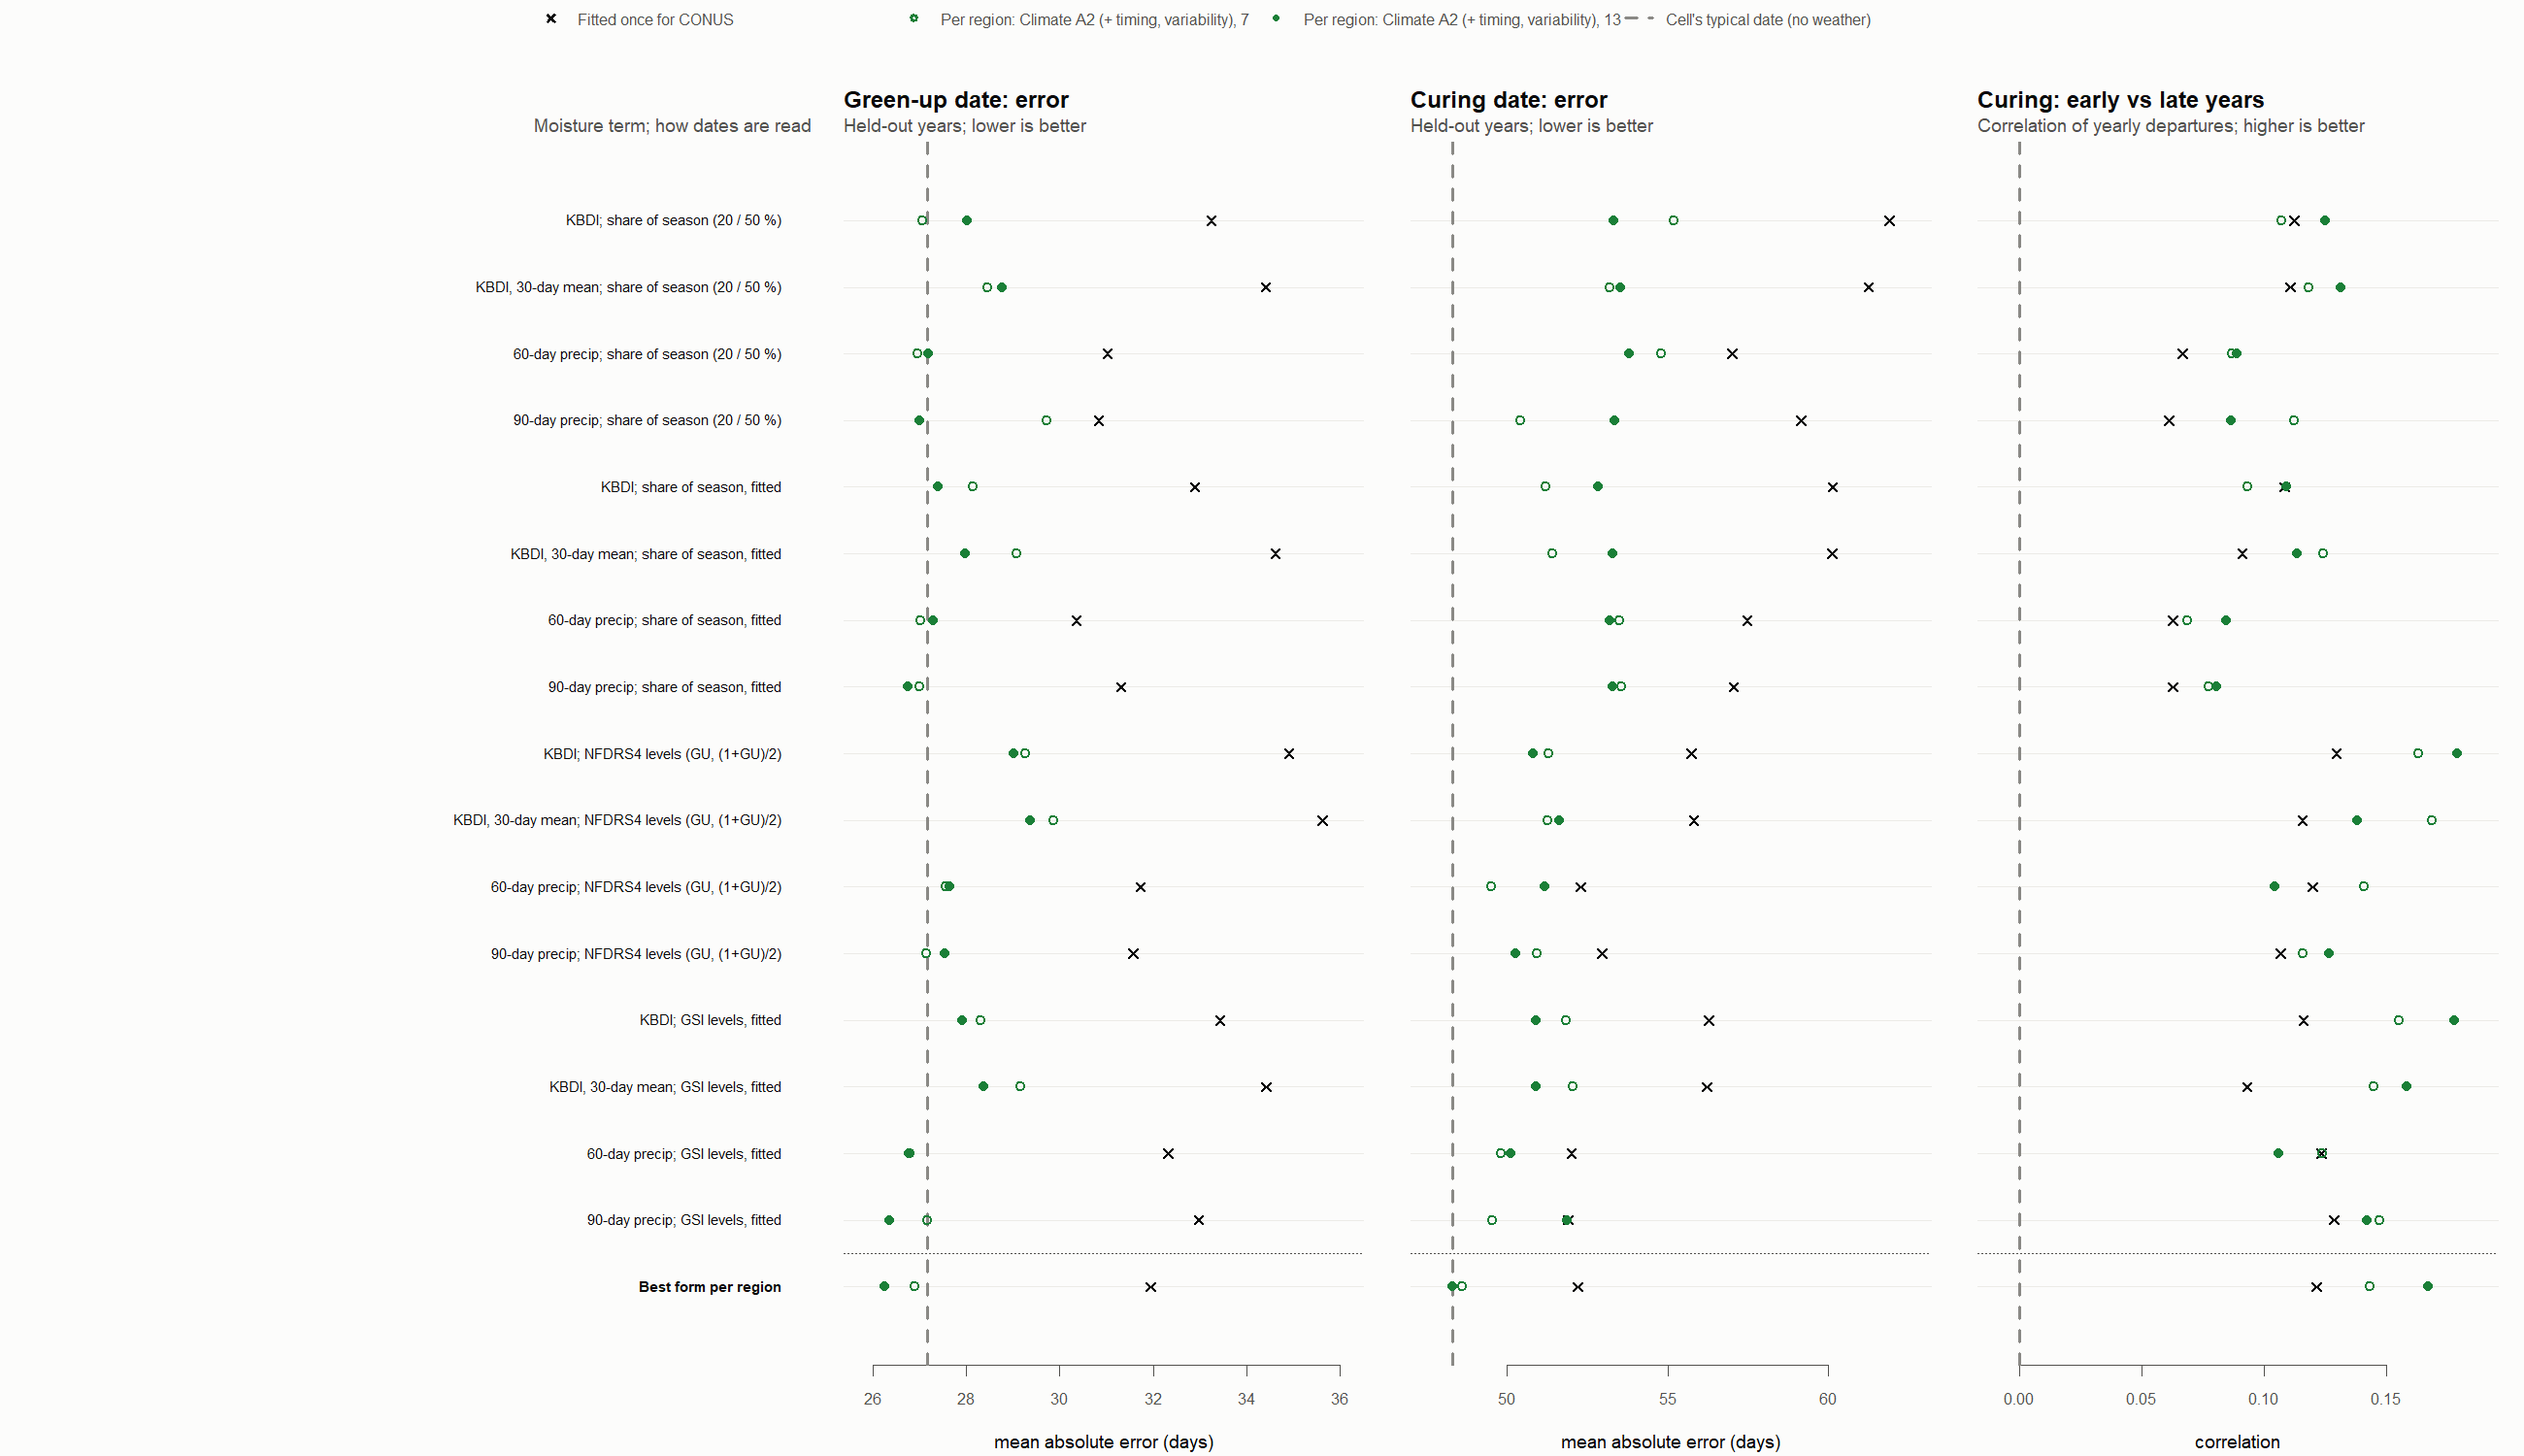
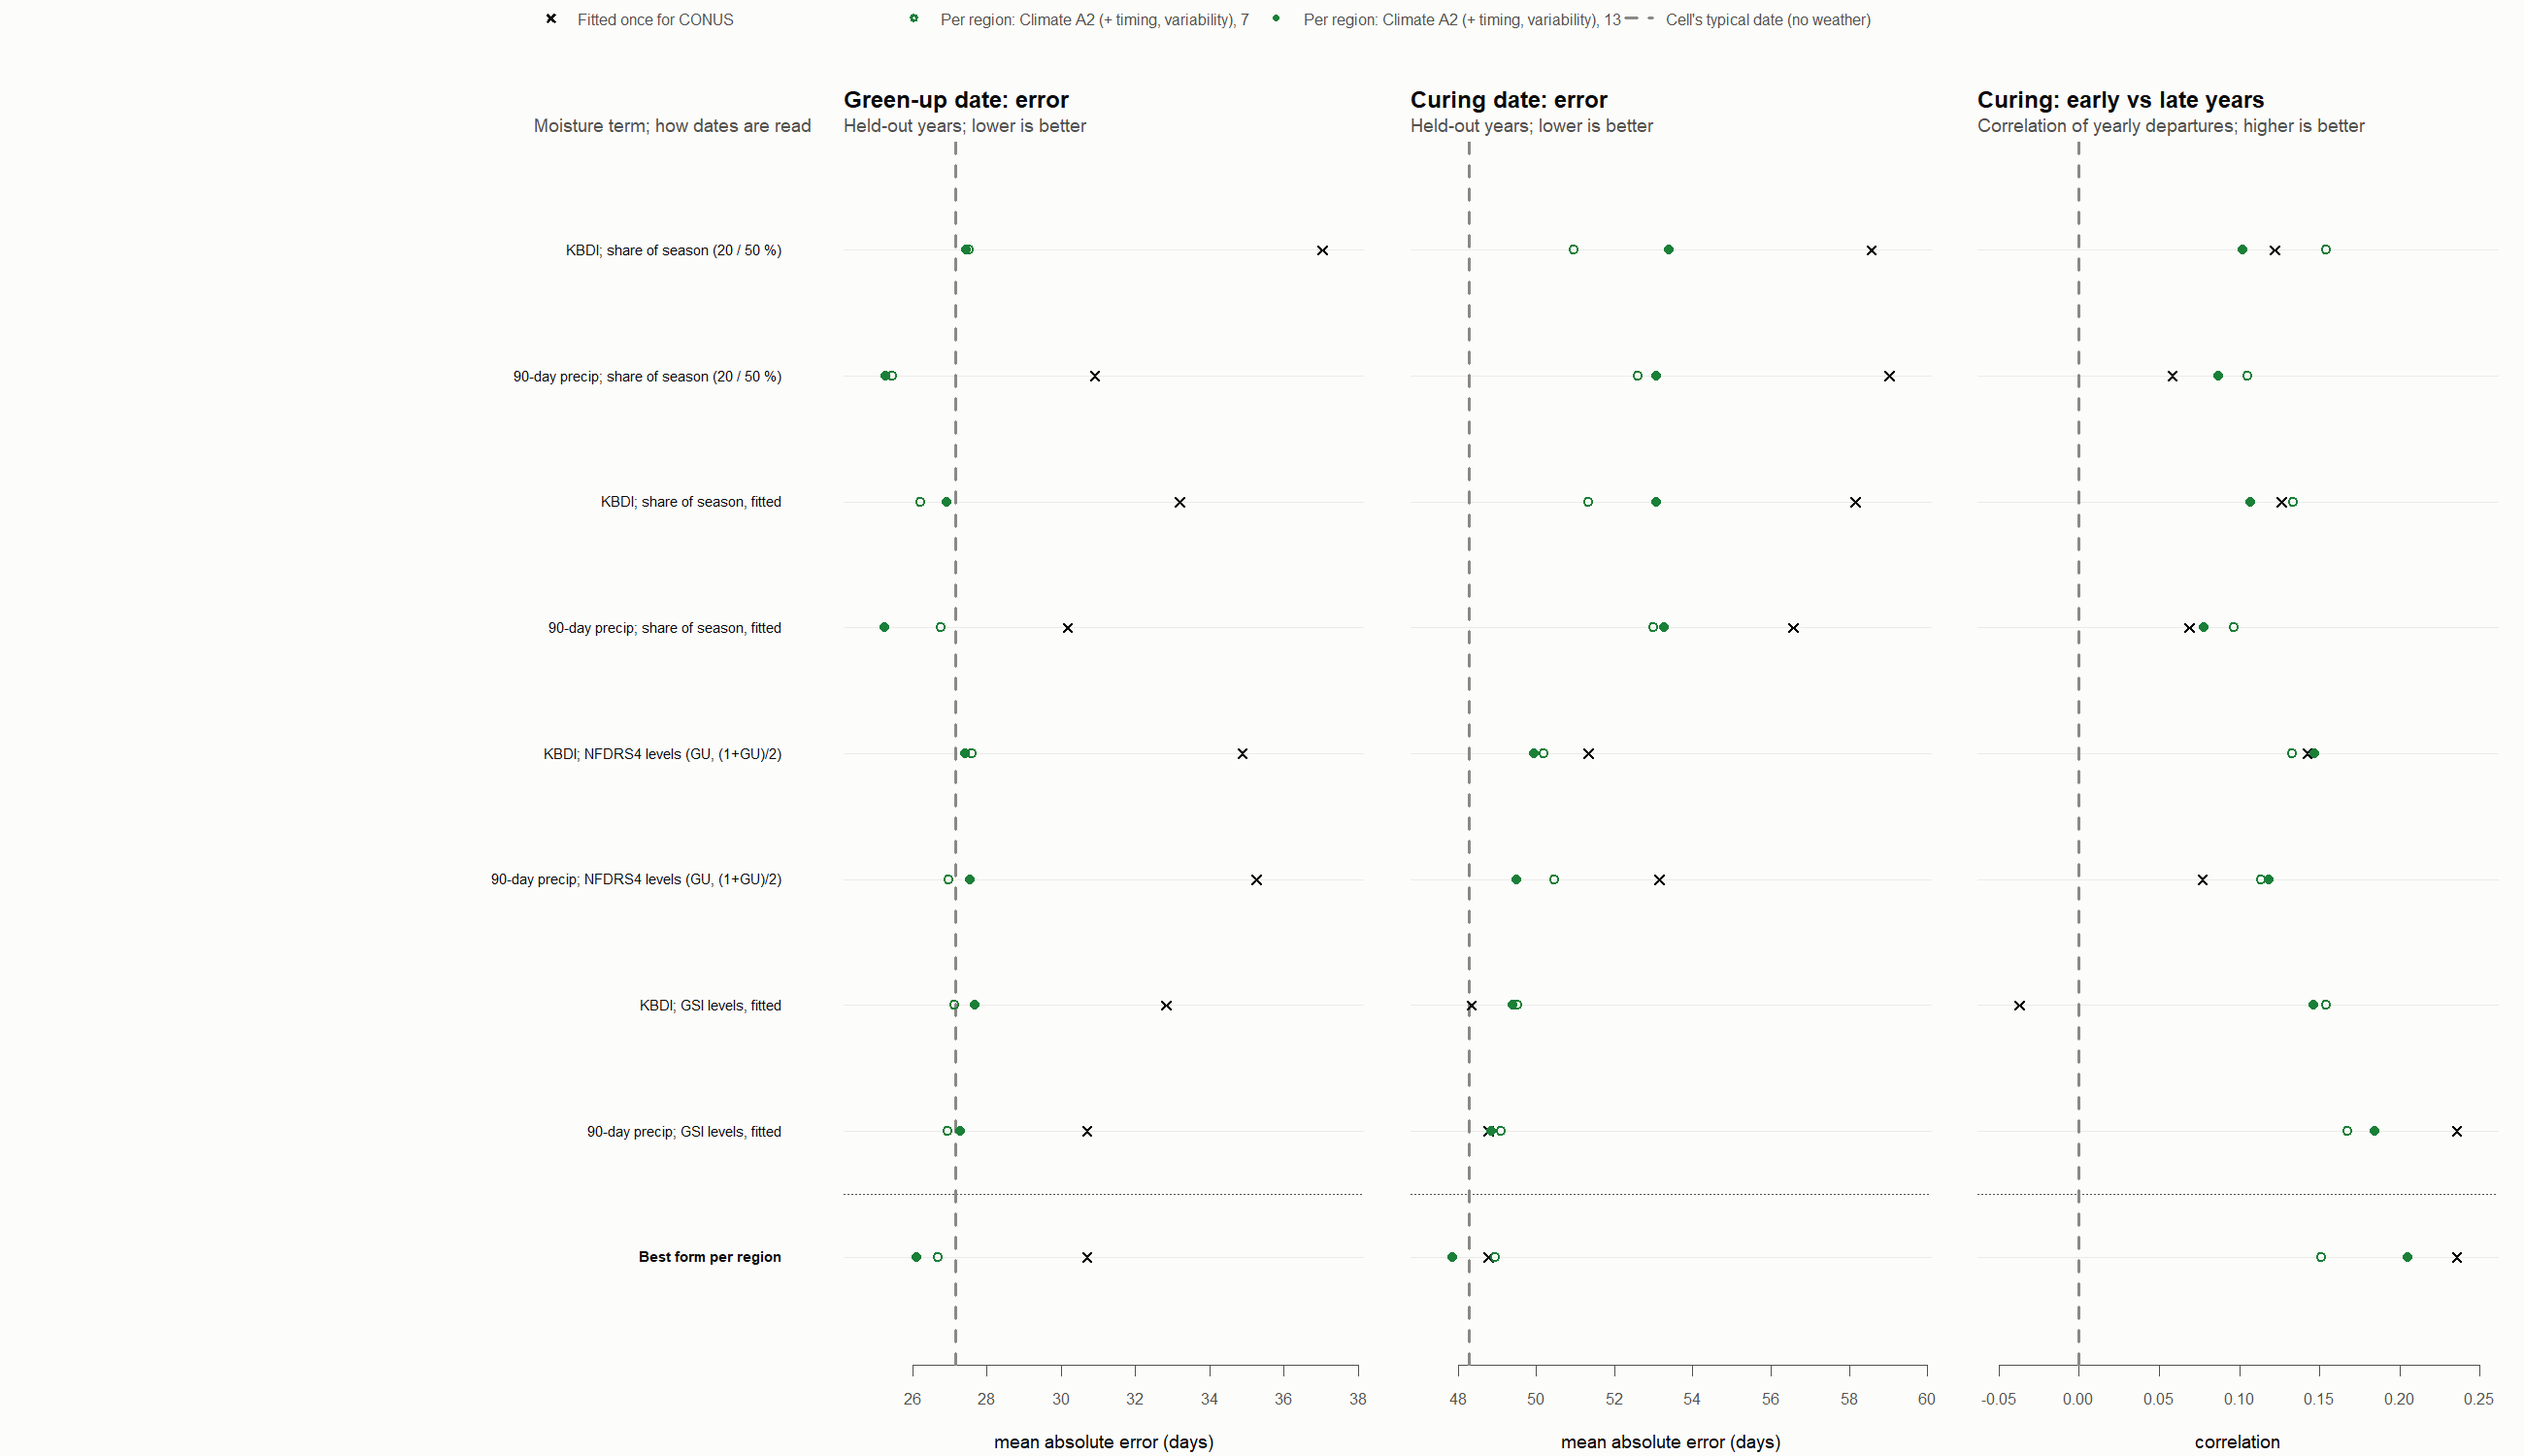
Report: GSI curing test rerun with fair scoring

diff --git a/CLAUDE.md b/CLAUDE.md
@@ -309,6 +309,12 @@ Deferred: fire data, gridMET, ERA5-Land.
      v2 (Oct 10): `missing: fallback` = a missing GSI date takes the cell's typical date from
      the fitting years (fits and scores); paired_* scores compare on the cell-years the GSI
      dates; maxit 600; moisture kbdi + precip90 only; each fit logs "fit i/n done".
+     v2 results (Oct 10, ~5 h; no fit hit 1200 evaluations): with the fallback, best fits
+     switch curing dates off (coverage < 1 %) in regions 2, 3, 4, 5, 11 at A2 k13, so national
+     curing MAE 47.8 vs climatology 48.3 is mostly fallback; paired (years the GSI dates) 40 vs
+     41. GSI beats the typical curing date in 10 (16 vs 20, r 0.71), 12 (20 vs 23), 6 (39 vs
+     45). Green-up: precip90 forms 25 vs 27 d (paired 23 vs 25, r ~0.4). KBDI wins curing in
+     25 of 34 region-folds. eval/gsi_curing_v1 keeps the first run (laptop and P720).
 9. A3 (Block 3, GSI features; built Oct 9): `20_cluster_a1.R` variants `a3_groups` (A2 groups +
    Block 3 from GSI variant fems_precip, equal weight), `a3_groups_novpd` (fems_precip_novpd)
    and `a3_groups_kbdi` (fems_kbdi); config `block3: gsi_variant`, sources g3med / g3iqr
